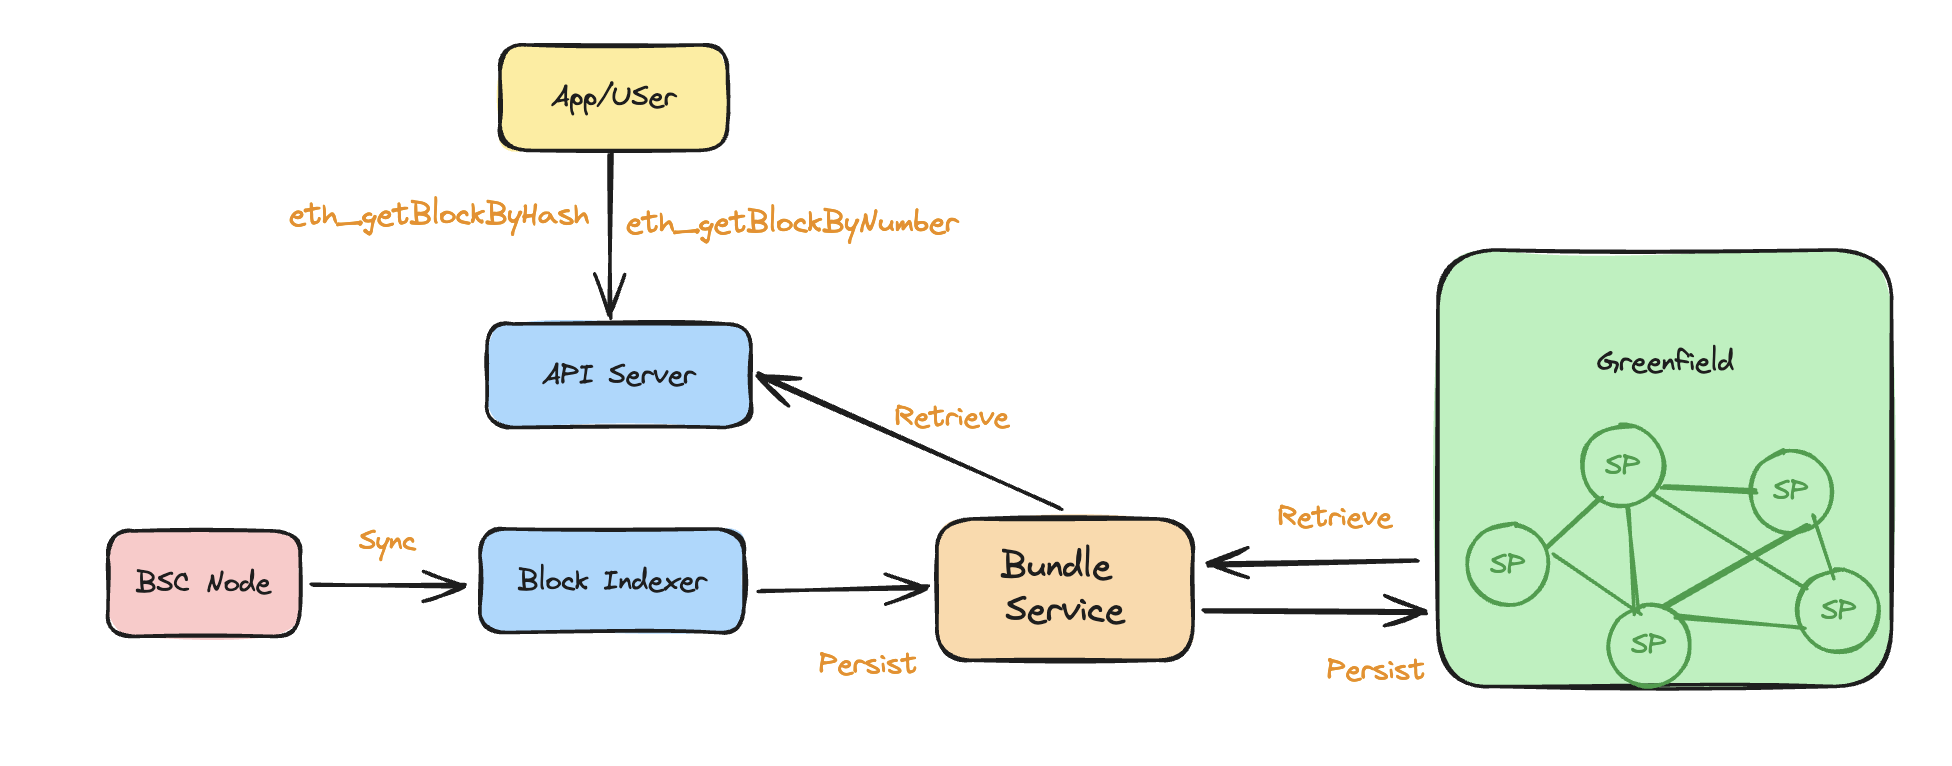
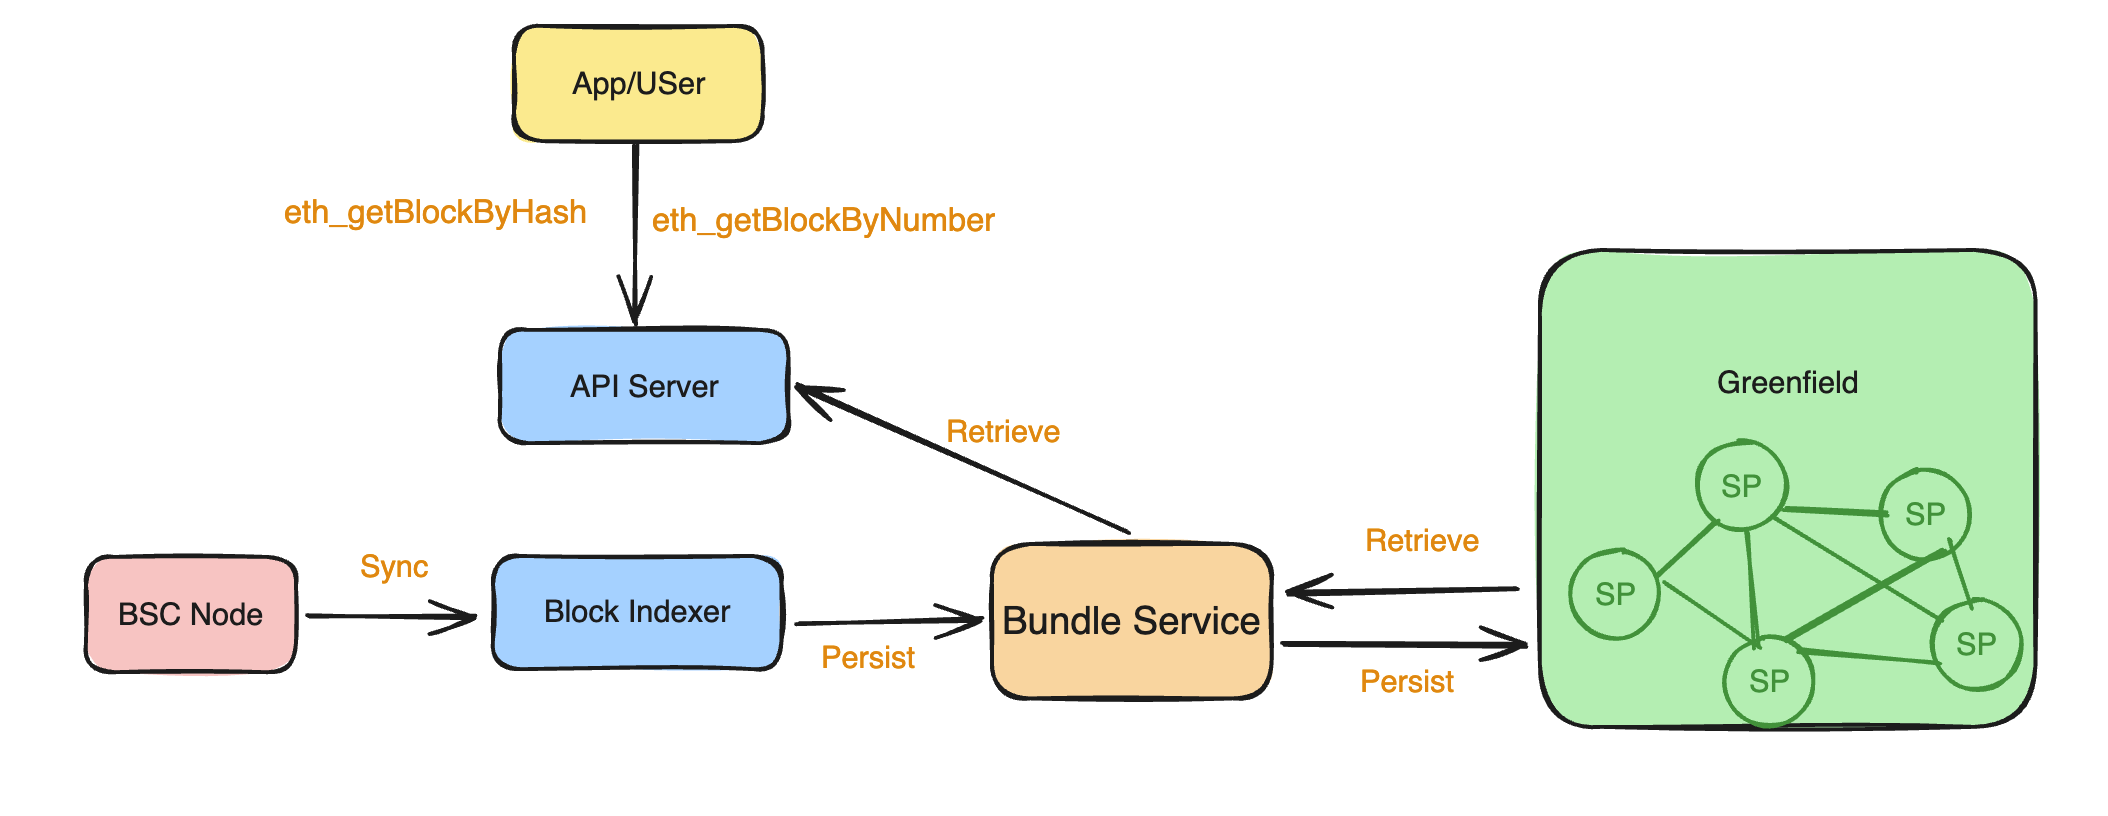
doc: replace some pics

Changed region(s): [[0.0312, 0.03, 0.9688, 0.9008], [0.8125, 0.4504, 0.9062, 0.5104]]

diff --git a/docs/bnb-greenfield/for-developers/data-archive/blob-hub.md b/docs/bnb-greenfield/for-developers/data-archive/blob-hub.md
@@ -26,7 +26,7 @@ blob-syncer service continuously fetches blobs from Ethereum and other blockchai
 api-server handles historical blob query requests from users. The bundle-service can aggregate blobs together, validate
 their correctness, and upload them to Greenfield efficiently.
 
-![Blob Hub Solution](../../static/asset/blob-hub-1.png)
+![Blob Hub Solution](../../static/asset/blob-hub.png)
 
 The syncing process ensures that no blob is missing and each blob synced to Greenfield is consistent. This is achieved
 by running a post-verification process that scans all uploaded blobs again, conducts integrity checks against data
